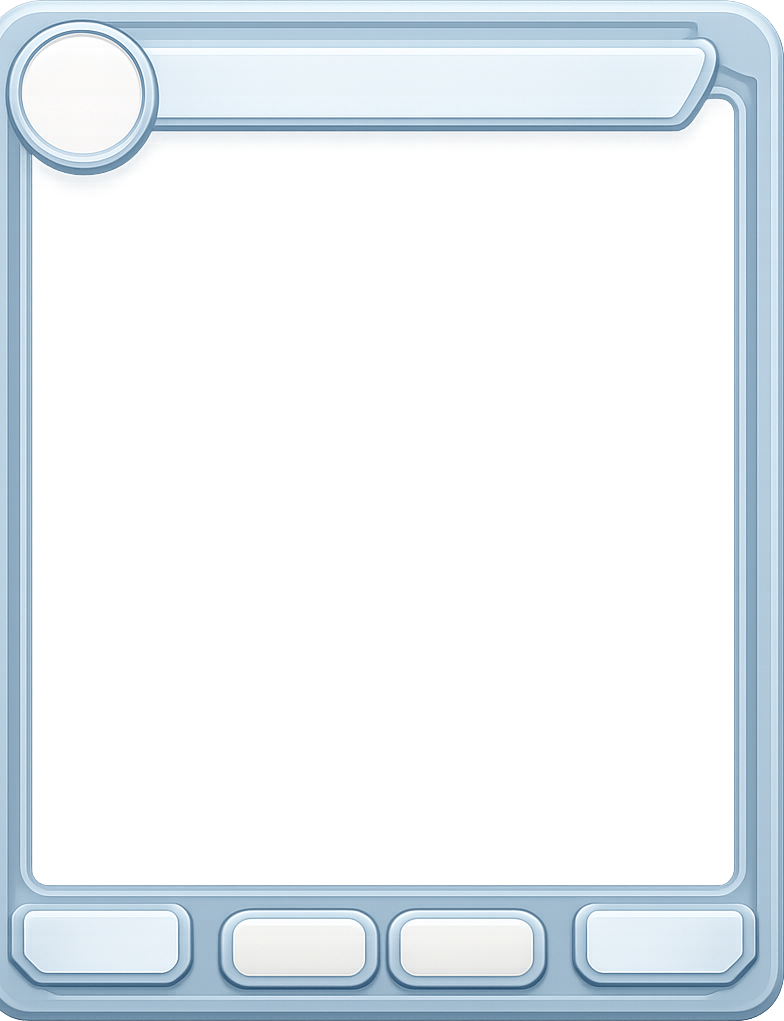
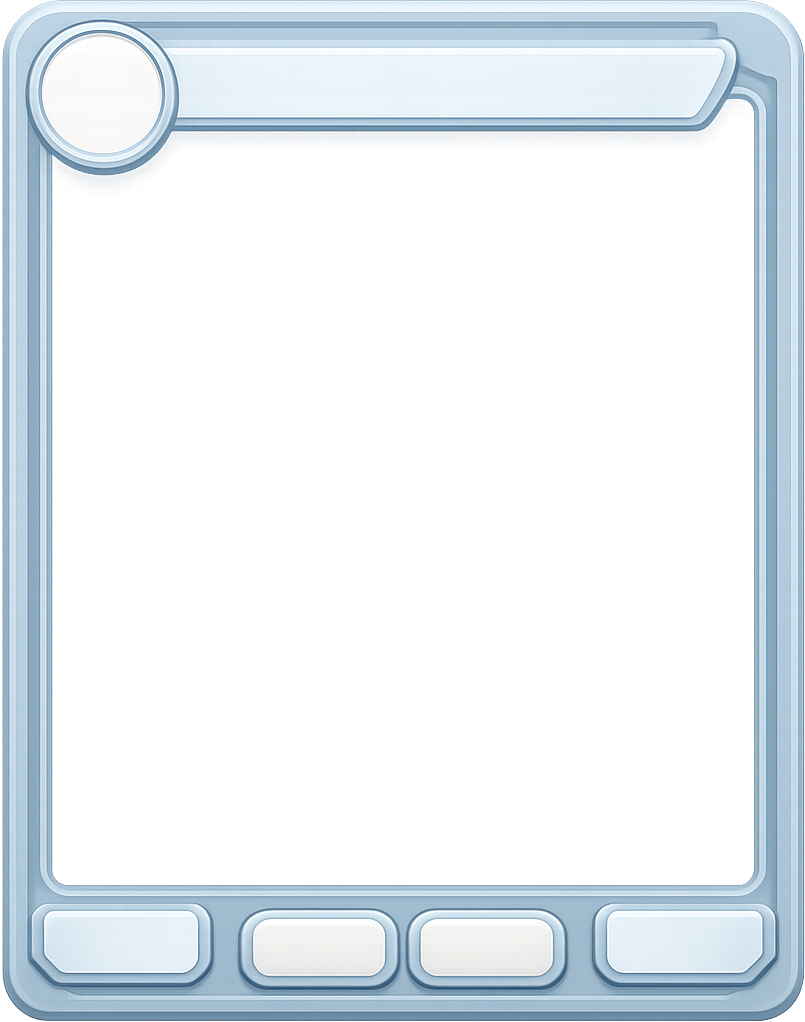
Rename to Cardex and update hero image

diff --git a/docs/index.html b/docs/index.html
@@ -3,7 +3,7 @@
 <head>
 <meta charset="UTF-8" />
 <meta name="viewport" content="width=device-width, initial-scale=1.0" />
-<title>Card UGC Game · 自定义卡牌对战</title>
+<title>Cardex · 自定义卡牌对战</title>
 <meta name="description" content="一款以游戏内引擎自定义卡牌为核心的卡牌对战游戏，支持热座、P2P 局域网与服务器联机三种模式。" />
 <link rel="preconnect" href="https://fonts.googleapis.com" />
 <link rel="preconnect" href="https://fonts.gstatic.com" crossorigin />
@@ -313,7 +313,7 @@
     <nav>
       <a class="brand" href="#top">
         <span class="logo">C</span>
-        <span>Card UGC Game</span>
+        <span>Cardex</span>
       </a>
       <div class="nav-links" id="navLinks">
         <a href="#about">关于</a>
@@ -332,7 +332,7 @@
   <div class="wrap hero-grid">
     <div class="hero-text">
       <span class="eyebrow">Build · Battle · Share</span>
-      <h1>CARD UGC GAME</h1>
+      <h1>CARDEX</h1>
       <div class="sub-cn">自由创造你的卡牌，与对手同台对决</div>
       <p class="lead">
         内置卡牌引擎，让你无需编程即可设计专属卡牌与技能。完成后，约上好友——
@@ -485,7 +485,7 @@
     <div class="footer-grid">
       <div class="col" style="max-width:300px;">
         <a class="brand" href="#top" style="margin-bottom:14px;">
-          <span class="logo">C</span><span>Card UGC Game</span>
+          <span class="logo">C</span><span>Cardex</span>
         </a>
         <p style="color:var(--text-dim);font-size:14px;">
           自由创造卡牌，自由对战。一款由创作者驱动的卡牌对战游戏。
@@ -506,7 +506,7 @@
       </div>
     </div>
     <div class="copyright">
-      © 2026 Card UGC Game. Made with Godot Engine.
+      © 2026 Cardex. Made with Godot Engine.
     </div>
   </div>
 </footer>